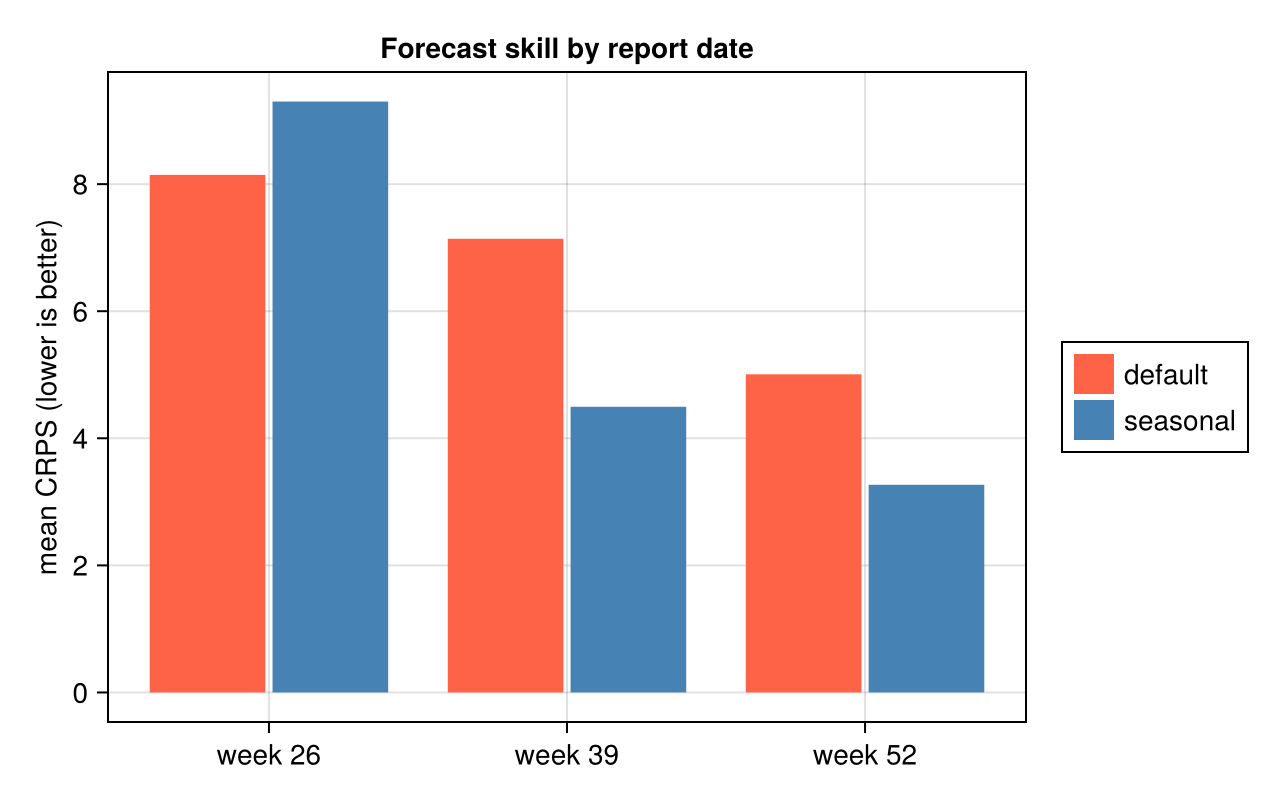
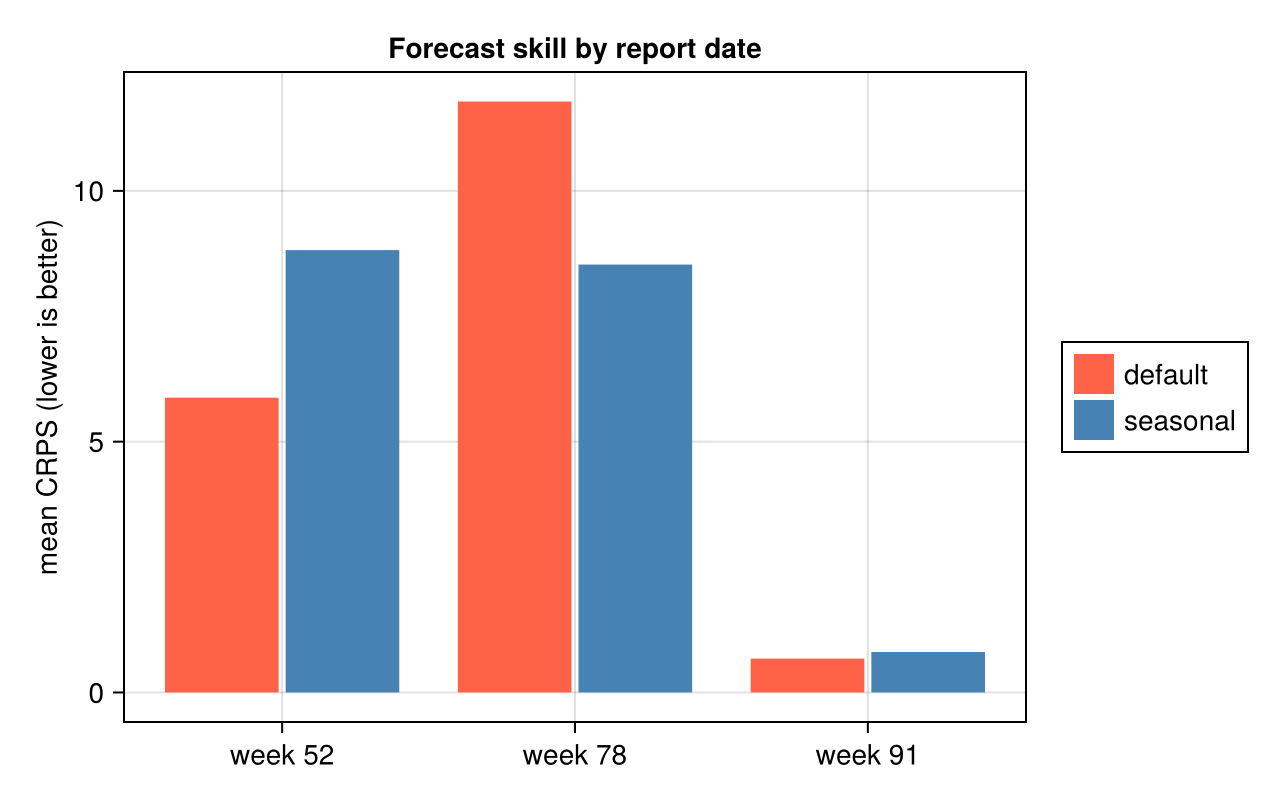
new setting_priors.jl

diff --git a/docs/src/vignettes/setting-priors.md b/docs/src/vignettes/setting-priors.md
@@ -93,13 +93,13 @@ as data accrue.
 
 ````julia
 start_date = Date(2022, 1, 1)
-all_dates = collect(start_date:Week(1):(start_date + Week(103)))   # 104 weekly points ≈ 2 years
+all_dates = collect(start_date:Week(1):(start_date + Week(52 * 3)))   # 104 weekly points ≈ 2 years
 n_all = length(all_dates)
 tt = 0:(n_all - 1)
-truth = 50.0 .+ 20.0 .* sin.(2π .* tt ./ 52) .+ 0.08 .* tt          # annual cycle (52 weeks) + trend
+truth = 50.0 .+ 20.0 .* sin.(2π .* tt ./ 52) .+ 0.2 .* tt          # annual cycle (52 weeks) + trend
 observations = truth .+ 2.0 .* randn(n_all)
 
-report_weeks = [26, 39, 52]
+report_weeks = 52 .+ [0, 26, 39]
 horizon = 52                                                        # forecast one year ahead
 report_colours = [:steelblue, :darkorange, :seagreen]
 
@@ -126,15 +126,15 @@ tighten `σ` to concentrate mass around the annual cycle. For a 39-week window, 
 
 ````julia
 example_window = 39
-seasonal_example = @set GPConfig().prior[:period][:mu] = log(52 / example_window)
-seasonal_example = @set seasonal_example.prior[:period][:sigma] = 0.3
+seasonal_example = @set GPConfig().prior[:period][:mu] = -log(3.0)
+seasonal_example = @set seasonal_example.prior[:period][:sigma] = 0.1
 seasonal_example.prior[:period]
 ````
 
 ````
 Dict{Symbol, Float64} with 2 entries:
-  :mu => 0.287682
-  :sigma => 0.3
+  :mu => -1.09861
+  :sigma => 0.1
 ````
 
 `@set` returns a fresh `GPConfig`; every sibling prior is carried over unchanged — it only touched
@@ -169,8 +169,9 @@ results = map(report_weeks) do w
     horizon_truth = truth[(w + 1):(w + horizon)]
 
     # a seasonal prior for *this* window — an annual cycle is log(52/w) in normalised time
-    seasonal_config = @set GPConfig().prior[:period][:mu] = log(52 / w)
-    seasonal_config = @set seasonal_config.prior[:period][:sigma] = 0.3
+    window_length = Dates.value(all_dates[w] - all_dates[1])
+    seasonal_config = @set GPConfig().prior[:period][:mu] = log(365 / window_length)
+    seasonal_config = @set seasonal_config.prior[:period][:sigma] = 0.2
 
     default_model = make_and_fit_model(train_data; config = GPConfig(), fit_params...)
     seasonal_model = make_and_fit_model(train_data; config = seasonal_config, fit_params...)
@@ -277,9 +278,9 @@ end
 
 ````
 3-element Vector{@NamedTuple{report_week::Int64, default::Float64, seasonal::Float64}}:
- (report_week = 26, default = 8.145047072851177, seasonal = 9.299402943763948)
- (report_week = 39, default = 7.139662993075851, seasonal = 4.4957906600468425)
- (report_week = 52, default = 5.006893616792975, seasonal = 3.268268898264733)
+ (report_week = 52, default = 5.8769579095053945, seasonal = 8.818111041709123)
+ (report_week = 78, default = 11.780098525126478, seasonal = 8.530316456971692)
+ (report_week = 91, default = 0.6746733104098456, seasonal = 0.8066853953563354)
 ````
 
 The seasonal prior is clearly better once enough of the cycle is in view — a much lower CRPS at weeks
@@ -325,7 +326,7 @@ overall_crps = (;
 ````
 
 ````
-(default = 6.7638678942400015, seasonal = 5.687820834025175)
+(default = 6.110576581680572, seasonal = 6.051704298012383)
 ````
 
 ## Enabling `SquaredExponential` structure